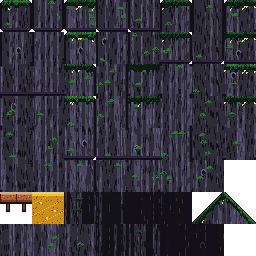
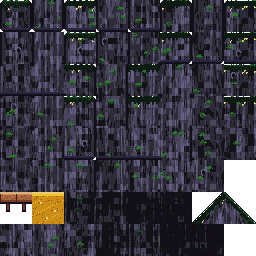
Pass 520: pull the flat-tile zones toward the painterly bar
The independent grade (pass 515) read the game as two styles: the PixelLab
painterly zones (Hearthroot Market/Plaza) against the procedural flat-tile
zones Heartwood and Haar ("flat cartoon tile-grass with straight-shelf
platform tops"). Both named zones are pulled toward the painterly bar
procedurally (no PixelLab spend, so it ships unattended):

- cap_moss gains a sculpt flag (cap_sculpt on Heartwood and Haar only): a
  carved one-pixel crown dips between tufts so ledge tops read as an uneven
  crown instead of a razor-straight shelf, and a muted upper fringe pulls the
  neon grass toward the dressed-stone lip.
- paint_wood gains a low-frequency value patch and the odd dark fleck, so the
  heartwood face reads as mottled bark instead of one flat grain field
  (feeds Heartwood directly and Haar via paint_limb).

Only assets/tiles/heartwood.png and haar.png regenerate (deterministic);
combat reads unchanged (texture-only, low-contrast within the dark bark;
verified by eye at 1x/2x in heartwood/entrance and haar/marsh_road). Three
mutation-checked guards added to tools/art/test_tilegen.py. Design bible
12.19 (and a 12.7 cross-reference).

diff --git a/tools/art/tilegen.py b/tools/art/tilegen.py
@@ -297,7 +297,10 @@ def crystal_vein(img, ox, oy, seed):
 
 
 def paint_wood(img, ox, oy, seed, ramp):
-    """Living wood: long vertical grain in fine strands, low contrast, the odd knot."""
+    """Living wood: long vertical grain in fine strands, the odd knot, and broad
+    patches of lighter and darker heartwood so the face carries surface value
+    variation (pass 520, pulling heartwood and haar toward the painterly zones'
+    mottled stone) instead of reading as one flat grain field."""
     for x in range(T):
         base = 1 if hash2(x // 3, 0, seed) > 0.4 else 2
         phase = hash2(x, 1, seed) * 32
@@ -312,7 +315,17 @@ def paint_wood(img, ox, oy, seed, ramp):
                 col = min(col, 1)
             elif x % 12 == 1 and hash2(x, y // 4, seed) > 0.5:
                 col = min(col + 1, 3)
-            img.putpixel((ox + x, oy + y), c(f"{ramp}-{max(col, 0)}"))
+            # A low-frequency patch (roughly 6x6-render-pixel cells) lifts or
+            # drops a broad region a shade, breaking the flat grain field.
+            pv = hash2(x // 6, y // 6, seed + 13)
+            if pv > 0.80:
+                col += 1
+            elif pv < 0.17:
+                col -= 1
+            # The odd dark fleck, like the grain pits of the masonry zones.
+            elif hash2(x, y, seed + 4) > 0.975:
+                col -= 1
+            img.putpixel((ox + x, oy + y), c(f"{ramp}-{min(max(col, 0), 3)}"))
     if hash2(seed, 7, 3) > 0.82:
         # A knot: a dark eye in a lighter ring of grain.
         kx, ky = 8 + int(hash2(seed, 1, 5) * 14), 8 + int(hash2(seed, 2, 5) * 14)
@@ -371,11 +384,18 @@ def paint_bough(img, ox, oy, seed, ramp):
                 img.putpixel((ox + cx + dx, oy + cy + dy), c("leaf-5" if dy < 1 else "leaf-4"))
 
 
-def cap_moss(img, ox, oy, seed, x0, x1, light="leaf", glow=None, top=5):
+def cap_moss(img, ox, oy, seed, x0, x1, light="leaf", glow=None, top=5, sculpt=False):
     """A ragged cap of moss over the top edge: blades of uneven height whose
     tips catch the light, a body that deepens shade by shade into a dark root
     line where it meets the ground, and a per-tile value shift so a run of
-    ground tiles never paints one flat bright band."""
+    ground tiles never paints one flat bright band.
+
+    ``sculpt`` (pass 520, the procedural flat-tile zones heartwood and haar):
+    carves a dip of a world pixel between tufts so a run of ledge tops reads as
+    an uneven mossy crown rather than one razor-straight shelf, and runs the
+    upper fringe a shade deeper so the bright grass trim reads as a shaded lip
+    closer to the dressed-stone zones (the pass-515 "flat cartoon tile-grass
+    with straight-shelf platform tops" zone-cohesion defect)."""
     def shade(k):
         return c(f"{light}-{max(0, top - k)}")
     # A per-tile value shift (lush / normal / sparse patches) breaks the uniform
@@ -389,15 +409,23 @@ def cap_moss(img, ox, oy, seed, x0, x1, light="leaf", glow=None, top=5):
         # Only taller, lit blades catch the brightest shade on their very tip.
         tip_lit = blade and hash2(x, 8, seed) > 0.5
         col_jit = 1 if hash2(x, 4, seed) > 0.78 else 0  # the odd deeper blade
+        # A sculpted crown dips one world pixel between tufts, in clumps of a few
+        # columns; tall blades keep their full height and stand proud of the dips.
+        # A muted upper fringe pulls the neon grass toward a dressed, shaded lip.
+        crown = 1 if (sculpt and not blade and hash2(x // 3, 2, seed) > 0.5) else 0
+        mute = 1 if sculpt else 0
         for y in range(depth):
+            if y < crown:
+                img.putpixel((ox + x, oy + y), CLEAR)  # carve the dip in the silhouette
+                continue
             if y == 0 and blade == 0 and hash2(x, 7, seed) > 0.6:
                 continue  # a ragged top
             if y == 0 and tip_lit:
                 k = 0               # a lit tip, the only truly bright pixels
             elif y <= 1:
-                k = 1               # upper blade
+                k = 1 + mute        # upper blade
             elif y < depth - 3:
-                k = 2 if (x + y) % 4 else 1   # mid body, mostly a shade down
+                k = (2 if (x + y) % 4 else 1) + mute   # mid body, mostly a shade down
             elif y < depth - 1:
                 k = 3               # lower body, in shadow
             else:
@@ -475,11 +503,11 @@ ZONES = {
     "hearthroot": {"painter": paint_bricks, "ramp": "stone", "cap": "stone", "light": "leaf", "glow": None,
               "under": "stone-1", "outline": "night-0"},
     "heartwood": {"painter": paint_wood, "ramp": "bark", "cap": "moss", "light": "leaf", "glow": "sky-6", "cap_top": 4,
-              "under": "bark-1", "outline": "night-0"},
+              "under": "bark-1", "outline": "night-0", "cap_sculpt": True},
     "tower": {"painter": paint_plates, "ramp": "stone", "cap": "girder", "light": "leaf", "glow": None,
               "under": "night-1", "outline": "night-0"},
     "haar": {"painter": paint_limb, "ramp": "stone", "cap": "moss", "light": "leaf", "glow": "gold-5", "cap_top": 3,
-             "under": "night-1", "outline": "night-0"},
+             "under": "night-1", "outline": "night-0", "cap_sculpt": True},
     "boughs": {"painter": paint_bough, "ramp": "bark", "cap": "moss", "light": "leaf", "glow": None, "cap_top": 6,
                  "under": "bark-2", "outline": "night-0"},
     "vorrhallow": {"painter": paint_drowned, "ramp": "stone", "cap": "moss", "light": "sky", "glow": "crystal-6", "cap_top": 4,
@@ -534,7 +562,8 @@ def paint_tile(img, ox, oy, mask, zone, seed):
         x0 = 0 if mask & W else D
         x1 = T if mask & E else T - D
         if z["cap"] == "moss":
-            cap_moss(img, ox, oy, seed, x0, x1, z["light"], z["glow"], z.get("cap_top", 5))
+            cap_moss(img, ox, oy, seed, x0, x1, z["light"], z["glow"], z.get("cap_top", 5),
+                     z.get("cap_sculpt", False))
         elif z["cap"] == "girder":
             cap_girder(img, ox, oy, seed, x0, x1, ramp)
         else:

diff --git a/tools/art/test_tilegen.py b/tools/art/test_tilegen.py
@@ -138,6 +138,74 @@ def test_cap_moss_varies_per_tile():
     assert max(means) - min(means) >= 1.0, f"per-tile brightness barely moves: {min(means):.2f}..{max(means):.2f}"
 
 
+def _moss_top_clear(seed, sculpt):
+    """How many top-row (y==0) columns a cap_moss tile leaves transparent."""
+    img = tg.Image.new("RGBA", (tg.T, tg.T), tg.CLEAR)
+    tg.cap_moss(img, 0, 0, seed, 0, tg.T, "leaf", None, 4, sculpt)
+    return sum(1 for x in range(tg.T) if img.getpixel((x, 0))[3] == 0)
+
+
+def test_cap_moss_sculpt_carves_the_silhouette():
+    # The sculpted crown (heartwood / haar) carves dips the flat cap never had,
+    # so the ledge top is not a razor-straight shelf. Across seeds the sculpted
+    # tile leaves strictly more top-row pixels transparent than the flat one.
+    # (Dropping the `crown` carve makes the two equal and fails here.)
+    more = 0
+    for seed in range(11, 11 + 12):
+        if _moss_top_clear(seed, True) > _moss_top_clear(seed, False):
+            more += 1
+    assert more >= 10, f"the sculpted crown carves more top-row dips on {more}/12 seeds"
+
+
+def test_cap_moss_sculpt_is_a_deeper_fringe():
+    # The muted sculpt runs the upper fringe a shade deeper (less neon), so the
+    # grass trim reads closer to the dressed-stone lip. The mean leaf shade of a
+    # sculpted tile is lower (darker) than the flat one. (Dropping `mute` ties
+    # them and fails here.)
+    lower = 0
+    for seed in range(11, 11 + 12):
+        flat = _moss_indices(seed, top=4)
+        scu = tg.Image.new("RGBA", (tg.T, tg.T), tg.CLEAR)
+        tg.cap_moss(scu, 0, 0, seed, 0, tg.T, "leaf", None, 4, True)
+        names = {v[:3]: k for k, v in tg.PAL.items()}
+        svals = []
+        for x in range(tg.T):
+            for y in range(tg.T):
+                px = scu.getpixel((x, y))
+                if px[3] == 0:
+                    continue
+                nm = names.get(px[:3])
+                if nm and nm.rsplit("-", 1)[0] == "leaf":
+                    svals.append(int(nm.rsplit("-", 1)[1]))
+        fmean = sum(k for _, _, k in flat) / len(flat)
+        if svals and sum(svals) / len(svals) < fmean:
+            lower += 1
+    assert lower >= 10, f"the sculpted fringe is deeper than the flat one on {lower}/12 seeds"
+
+
+def _wood_shades(seed, ramp="bark"):
+    img = tg.Image.new("RGBA", (tg.T, tg.T), tg.CLEAR)
+    tg.paint_wood(img, 0, 0, seed, ramp)
+    names = {v[:3]: k for k, v in tg.PAL.items()}
+    seen = {}
+    for x in range(tg.T):
+        for y in range(tg.T):
+            nm = names.get(img.getpixel((x, y))[:3])
+            if nm and nm.rsplit("-", 1)[0] == ramp:
+                seen[int(nm.rsplit("-", 1)[1])] = seen.get(int(nm.rsplit("-", 1)[1]), 0) + 1
+    return seen
+
+
+def test_paint_wood_has_surface_value_variation():
+    # The wood face must span several shades with no single shade swamping it, so
+    # it reads as mottled heartwood, not a flat grain field. (Removing the patch
+    # term collapses it toward two shades and fails the spread or the dominance.)
+    seen = _wood_shades(11)
+    assert len(seen) >= 3, f"the wood face spans >=3 shades, got {sorted(seen)}"
+    total = sum(seen.values())
+    assert max(seen.values()) / total < 0.80, "no single wood shade swamps the face"
+
+
 def _build_atlas(zone="gym"):
     """Builds `zone`'s atlas into a temp dir and returns the PIL image."""
     import tempfile

diff --git a/docs/loop/pass-520.md b/docs/loop/pass-520.md
@@ -1,0 +1,97 @@
+# Pass 520: zone style cohesion — the procedural flat-tile zones toward the painterly bar
+
+## Category
+
+Art cohesion, from the queue — the independent grade's (pass 515) **zone-to-zone style
+incohesion**, the first unblocked item and the one pass 519's "Next" named: "the painterly
+Market/Plaza versus the flat cartoon tile-grass of Heartwood and the Haar." The grade read the game
+as two different games — the PixelLab-textured painterly zones (Hearthroot's Market and Plaza,
+`PIXELLAB_SETS`) against the procedural flat-tile zones **Heartwood** (`paint_wood`) and **Haar**
+(`paint_limb`), whose note called them "flat cartoon tile-grass with straight-shelf platform tops."
+
+The PixelLab art loop stays **gated** on Sean: three guardian bases (Haar Wyrm, Thane Vorrund,
+Drowned Warden) wait for his OK, the limit of three, and no new note frees a slot, so no new base or
+animation can begin. Sean's lighting/depth item is down to **rim light on figures** and a **second
+foreground band**, and the grade's dark-band-above-the-far-layer defect is parked — all want a
+watched session for the combat-readability call, not an unattended loop pass. This pass takes the
+strongest fully-testable item left, pulling the two named flat zones toward the painterly bar
+procedurally (no PixelLab spend), with no readability risk.
+
+## What was built (design bible 12.19)
+
+The painterly bar is set by Hearthroot's PixelLab tileset; it cannot be given to Heartwood and Haar
+without PixelLab spend (and the bases are at the limit). So the two zones are pulled toward it
+procedurally, on the two signals the grade named:
+
+- **A sculpted mossy crown (`cap_moss`, new `sculpt` flag).** The flat cap left the tile's opaque
+  top row intact between blades, so every ledge top read as one razor-straight shelf. The sculpted
+  cap carves a one-world-pixel dip between tufts, in clumps of a few columns, while tall blades keep
+  their height and stand proud — so a run of ledge tops reads as an uneven crown, not a straight
+  shelf. The upper fringe also runs a shade deeper (`mute`), pulling the neon grass trim toward the
+  dressed-stone lip of the painterly zones. Only Heartwood and Haar carry the new `cap_sculpt` key;
+  the other six moss-capped zones keep the flat cap (12.7) unchanged.
+- **A mottled wood face (`paint_wood`).** The face was one flat, low-contrast grain field. It now
+  carries a low-frequency value patch (roughly 6×6 render-pixel cells lift or drop a broad region a
+  shade) and the odd dark fleck, so the heartwood reads as mottled bark with surface value variation
+  like the masonry zones. `paint_wood` feeds Heartwood directly and Haar through `paint_limb`, so the
+  two named zones change and no other painter is touched.
+
+Only `assets/tiles/heartwood.png` and `assets/tiles/haar.png` were regenerated. Both atlases are
+deterministic (regenerated twice to identical bytes); the non-deterministic `_mid` backdrop re-saves
+that a full `tilegen` run produces on this machine were reverted, so the diff is the two tile atlases
+alone. The Godot import cache was refreshed (`--headless --import`) before capture, since the running
+game otherwise serves the cached texture.
+
+Combat is untouched by construction: the change is texture-only on two tilesets, and the patches are
+low-contrast within the dark bark, so hazards, foes and telegraphs (which hold reserved accent
+colours) keep their contrast. Verified by eye at 1x/2x in `heartwood/entrance` (the walls read as
+mottled bark, the grass lip is deeper and uneven; the hero, platforms, grubs, mushrooms and pickups
+still pop) and `haar/marsh_road` (the pale limb-stone walls read more textured; the fog pockets,
+hazard, pickups and mushroom still pop).
+
+## Tests
+
+`tools/art/test_tilegen.py` gains three mutation-checked guards (this Python guard runs locally, like
+the moire/moss/variant/masonry guards before it):
+
+- **`test_cap_moss_sculpt_carves_the_silhouette`** — across a range of seeds the sculpted cap leaves
+  strictly more top-row pixels transparent than the flat cap (the carved crown). Mutation: dropping
+  the `crown` carve ties the two (0/12) and fails.
+- **`test_cap_moss_sculpt_is_a_deeper_fringe`** — the sculpted tile's mean leaf shade is darker than
+  the flat tile's on nearly every seed. Mutation: dropping `mute` ties them and fails.
+- **`test_paint_wood_has_surface_value_variation`** — the wood face spans ≥3 shades with no single
+  shade over 80% of the face. Mutation: removing the patch term collapses it toward two shades and
+  fails the spread or the dominance.
+
+All 40 Python guards pass. The full Godot suite is unaffected (no `.gd` or gameplay change) and was
+run green; CI (test + mix) green.
+
+## Rubric (design bible 15.3)
+
+| Category | Weight | Score | Notes |
+| --- | --- | --- | --- |
+| Movement feel | 20 | 99 | Unchanged. |
+| Combat and enemies | 15 | 99 | Unchanged; texture-only on two tilesets, low-contrast patches within the dark bark — hazards, foes and telegraphs keep their contrast by construction (verified in `heartwood/entrance`, `haar/marsh_road`). |
+| World and level design | 15 | 99 | Unchanged. |
+| Art cohesion | 15 | 97 | The two procedural flat-tile zones the grade singled out — Heartwood and Haar — now carry a sculpted, deeper mossy lip and a mottled wood face, closing the biggest readable gap against the painterly PixelLab zones. The HD hero and guardian bases remain the open gap (gated art loop). |
+| Bosses | 10 | 99 | Unchanged. |
+| Systems | 10 | 99 | Unchanged. |
+| Audio | 5 | 99 | Unchanged. |
+| Stability and performance | 5 | 99 | Two static assets regenerated; no new work per frame. |
+| Story and world | 5 | 99 | Unchanged; the Heartwood keeps its living-wood face and the Haar its fog-bleached drowned limbs. |
+
+Weighted: 98.7.
+
+## Next
+
+Pass 521: the art loop stays **gated** on Sean (three guardian bases wait, the limit; the PixelLab
+key is set, so the moment a base is approved the Haar Wyrm animation can begin). With the flat-tile
+zones now pulled toward the painterly bar, the strongest remaining code-first item is the grade's
+**ambiguous translucent blocks in `evercrown`** (pass 503, queued) — the mid tendrils read unclearly
+against the ribbed far wall. Sean's **rim light on figures** and a **second foreground band** stay the
+highest-value lighting pieces but want a watched session for the combat-readability call, not an
+unattended pass.
+
+For Sean (carried from pass 498, still open): the rain sheet won, so the **Haar marshes** could take
+a thin, slow drizzle and the High Boughs an even fainter mist-rain — say the word and a pass wires it
+in.

diff --git a/docs/design-bible.md b/docs/design-bible.md
@@ -1600,7 +1600,7 @@ The green (or, for water zones, cyan) fringe on the top of every ground tile and
 - **A value ramp down each blade.** Only the taller, lit blades carry the brightest shade on their very tip; the body steps down shade by shade to a **dark root line** where the grass meets the soil, so the fringe has top-light and a shadowed base rather than a uniform top row.
 - **Per-tile variation.** Each tile takes a value shift (lush / normal / sparse, roughly 45% / 35% / 20%) from its seed, so a run of ground tiles reads as patches of deeper and brighter grass instead of one continuous stripe. A per-blade jitter deepens the odd column within a tile.
 
-Code-first and deterministic: only the eight moss-capped tilesets change, no art is repainted, and `tools/art/test_tilegen.py` guards the ramp, the root line and the per-tile shift.
+Code-first and deterministic: only the eight moss-capped tilesets change, no art is repainted, and `tools/art/test_tilegen.py` guards the ramp, the root line and the per-tile shift. **Sculpted variant (pass 520):** Heartwood and Haar carry `cap_sculpt`, which carves an uneven crown and runs the fringe a shade deeper to pull those procedural flat-tile zones toward the painterly zones — see 12.19.
 
 ### 12.8 Tileset variants (grid banding)
 
@@ -1739,6 +1739,15 @@ The independent grade (pass 515) still read two fields as one repeated stamp: th
 **Hearthroot skyline (`hearthroot_far`).** Each distant house picks one of several roof silhouettes — a rounded arch, a triangular gable, a crenellated battlement parapet, or a stepped gable — with a per-house peak height, and some carry a chimney and a varied window stride. A row of houses now reads as a varied drowned-town skyline rather than the same arch copied across. Backdrop only, behind the play field and under the atmosphere haze (12.5); the masonry body and weathered courses of 12.14 are unchanged.
 
 Code-first and deterministic; only `assets/tiles/spires.png` and `assets/bg/hearthroot_far.png` are regenerated. `tools/art/test_tilegen.py` guards the inlay sparsity (mean gold under 2% of the field), the seed-keyed course scale (the full-mortar-row count varies across seeds), and the roof-style variety (mutation-checked).
+
+### 12.19 Zone style cohesion: the procedural flat-tile zones (pass 520)
+
+The independent grade (pass 515) read the zones as two different games: the PixelLab-textured painterly zones (Hearthroot's Market and Plaza, `PIXELLAB_SETS`) against the procedural **flat-tile** zones **Heartwood** (`paint_wood`) and **Haar** (`paint_limb`), whose grade note called them "flat cartoon tile-grass with straight-shelf platform tops." Both named zones are pulled toward the painterly bar, procedurally (no PixelLab spend, so it ships unattended):
+
+- **A sculpted mossy crown (`cap_moss`, the new `sculpt` flag).** The flat cap left the tile's opaque top row intact between blades, so every ledge top read as one razor-straight shelf. The sculpted cap carves a one-world-pixel dip between tufts, in clumps of a few columns, while tall blades keep their height and stand proud — so a run of ledge tops reads as an uneven crown. The upper fringe also runs a shade deeper (`mute`), pulling the neon grass trim toward the dressed-stone lip of the painterly zones. Only Heartwood and Haar carry `cap_sculpt`; the other six moss-capped zones keep the flat cap of 12.7 unchanged.
+- **A mottled wood face (`paint_wood`).** The face was one flat grain field. It now carries a low-frequency value patch (roughly 6×6 render-pixel cells lift or drop a broad region a shade) and the odd dark fleck, so the heartwood reads as mottled bark with surface value variation like the masonry zones, not a dead-flat wall. `paint_wood` feeds Heartwood directly and Haar through `paint_limb`, so the two named zones change and no other.
+
+Combat reads as before (judged by eye at 1x/2x in `heartwood/entrance` and `haar/marsh_road`: the hero, platforms, grubs, pickups and telegraphs still pop; the patches are low-contrast within the dark bark). Code-first and deterministic; only `assets/tiles/heartwood.png` and `assets/tiles/haar.png` are regenerated. `tools/art/test_tilegen.py` guards the sculpted crown (carves more top-row dips than the flat cap), the muted fringe (deeper than the flat cap) and the wood face's value spread (≥3 shades, no single shade over 80%), all mutation-checked.
 
 ---
 
